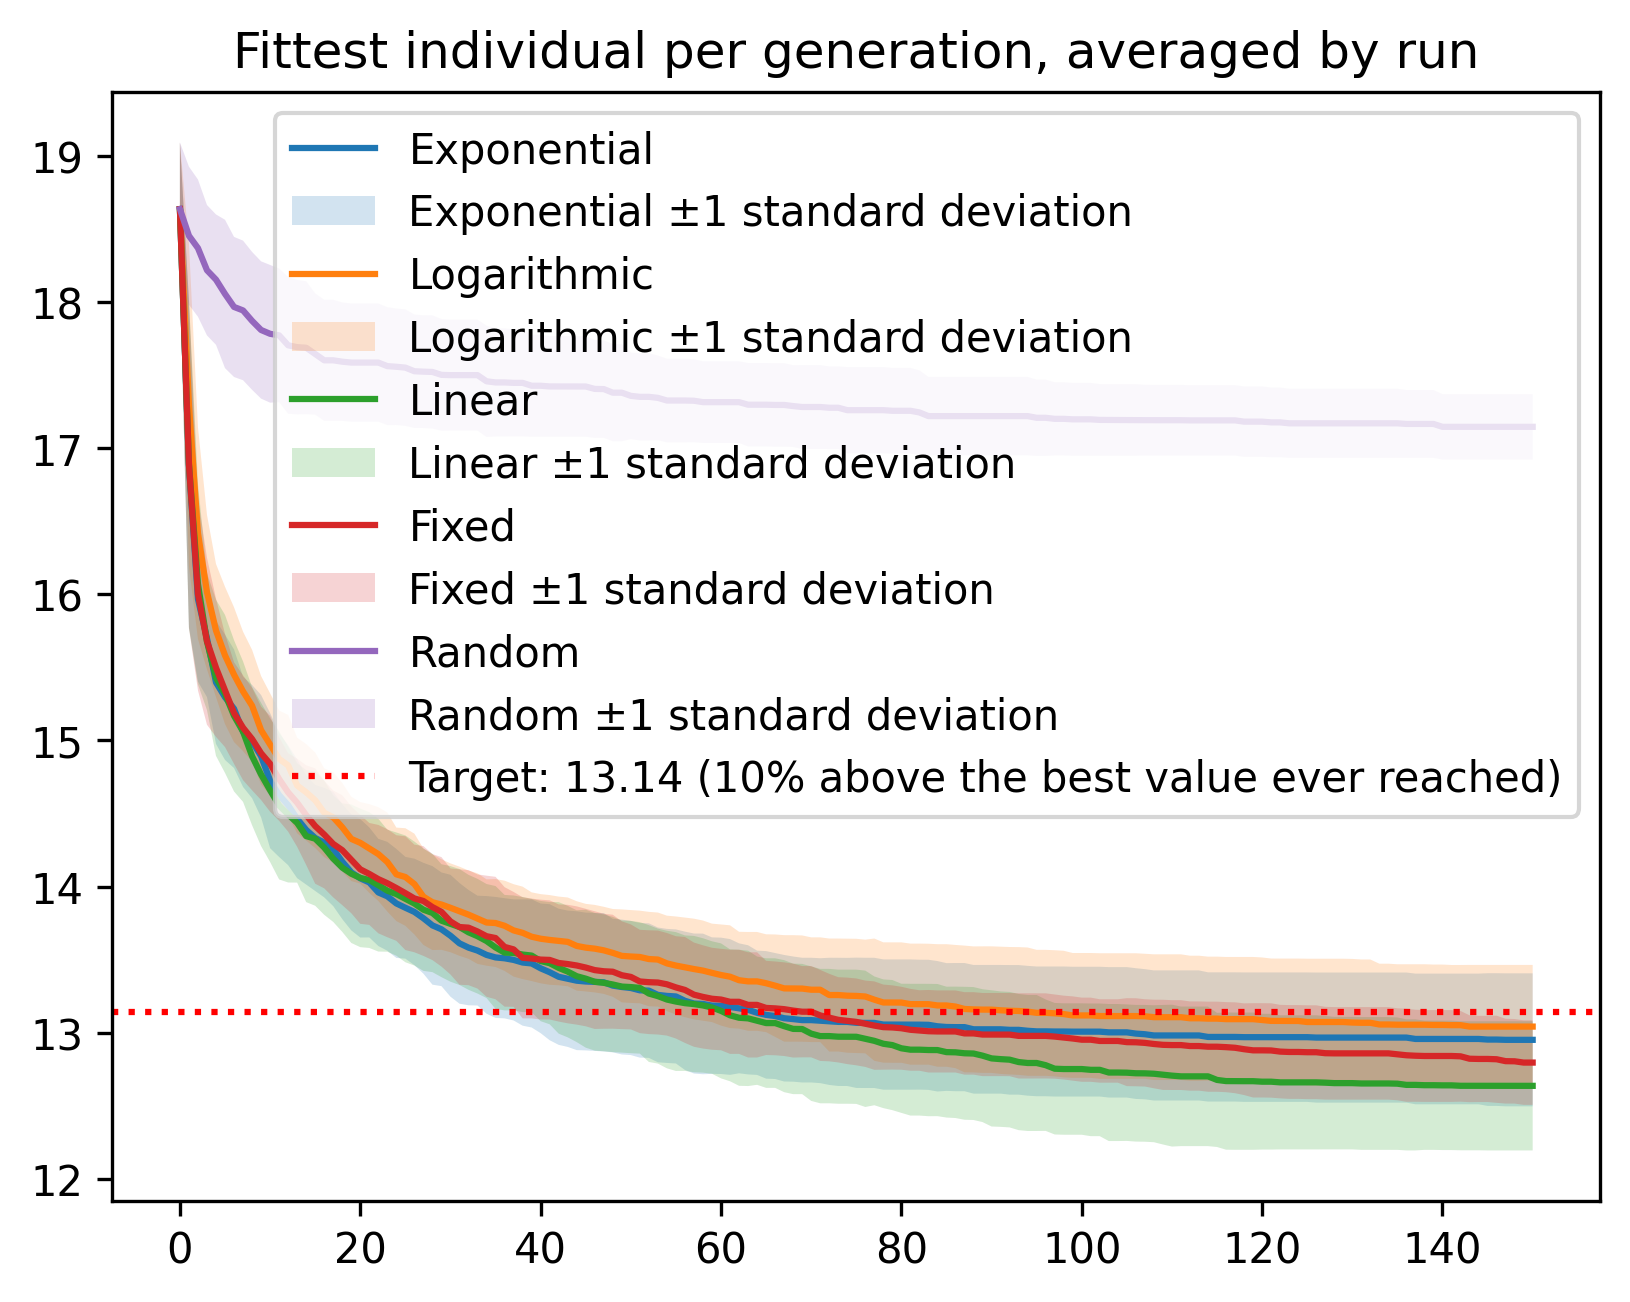
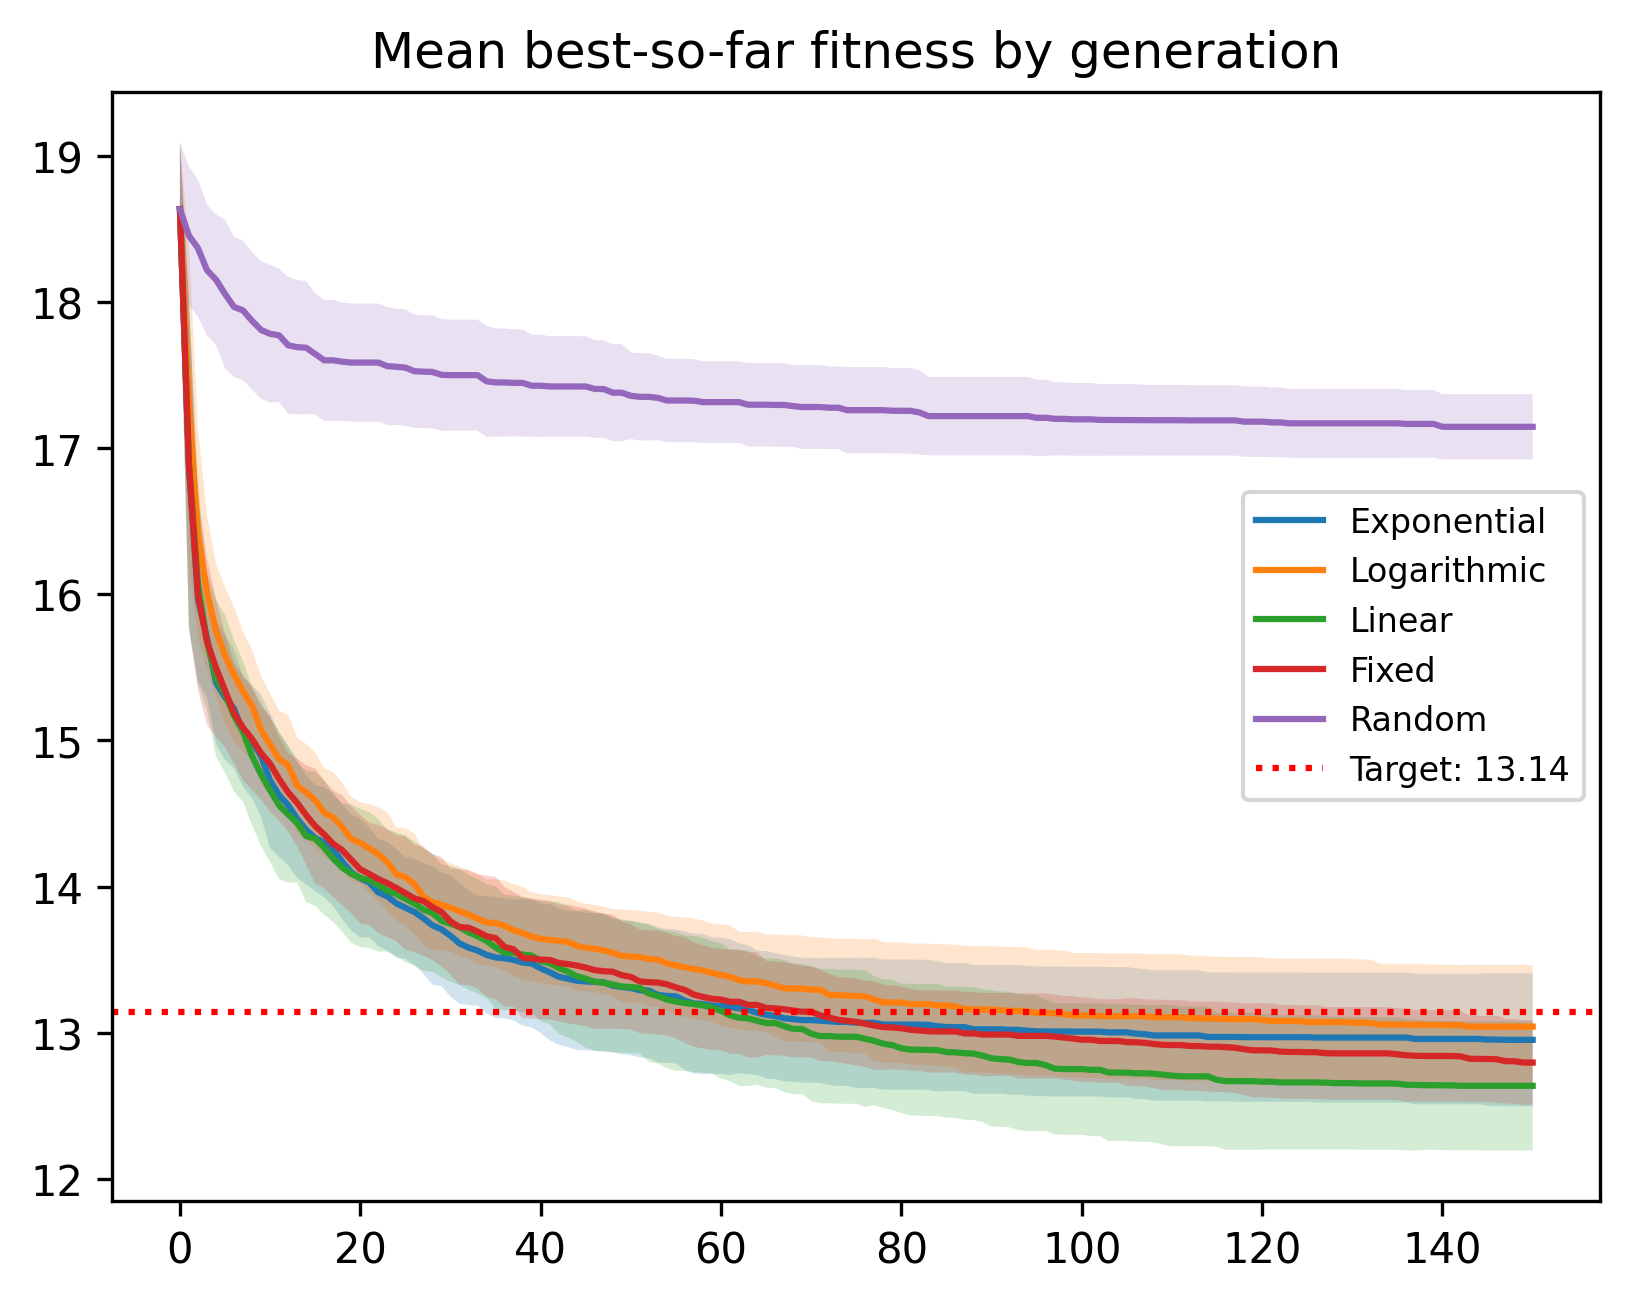
naming error

diff --git a/EvolutionaryComputing2026/assignments/assignment_1/data_analysis.py b/EvolutionaryComputing2026/assignments/assignment_1/data_analysis.py
@@ -236,7 +236,7 @@ def create_averaged_plot(threshold: float, comparison: None | list[str] = None):
         plt.plot(stats.index, stats["mean"], label=f"{plot_type.group().capitalize()}")
 
         if not comparison:
-            plt.title("Fittest individual per generation, averaged by run")
+            plt.title("Mean best-so-far fitness by generation")
 
         else:
             plt.title(" vs. ".join(s.strip().capitalize() for s in comparison))
@@ -246,17 +246,17 @@ def create_averaged_plot(threshold: float, comparison: None | list[str] = None):
             stats["mean"] - stats["std"],
             stats["mean"] + stats["std"],
             alpha=0.2,
-            label=f"{plot_type.group().capitalize()} ±1 standard deviation",
+            label="_nolegend_",
         )
 
     plt.axhline(
         y=threshold,
         color="red",
         linestyle=":",
-        label=f"Target: {threshold:.2f} ({(THRESHOLD_MULTIPLIER - 1) * 100:.0f}% above the best value ever reached)",
+        label=f"Target: {threshold:.2f}",
     )
 
-    plt.legend()
+    plt.legend(fontsize=8)
 
     # Create the output folder if it does not exist.
     output_dir = HERE / "outputs" / "averages"
